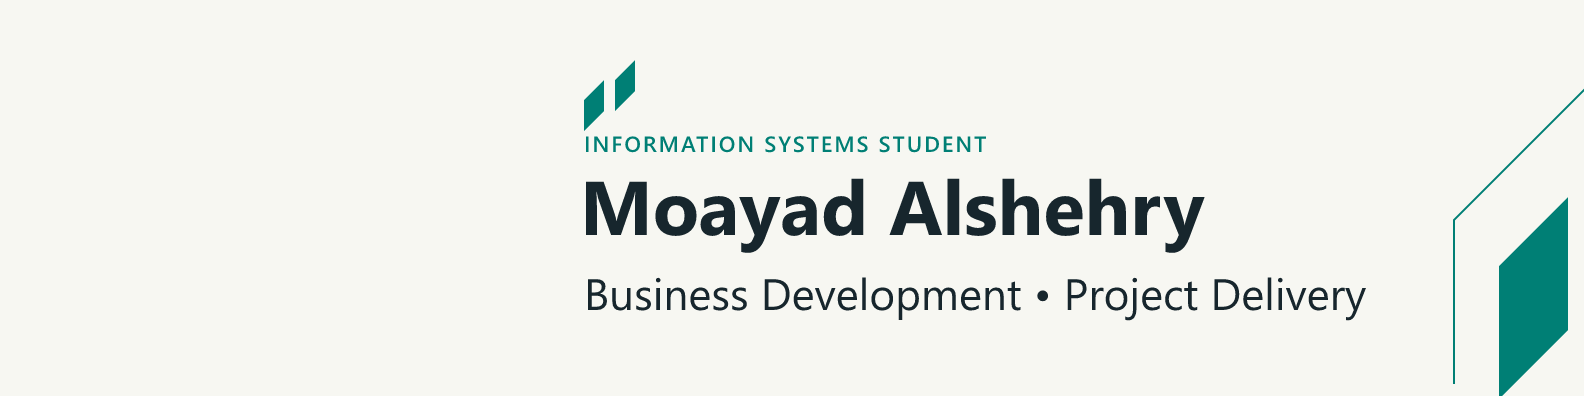
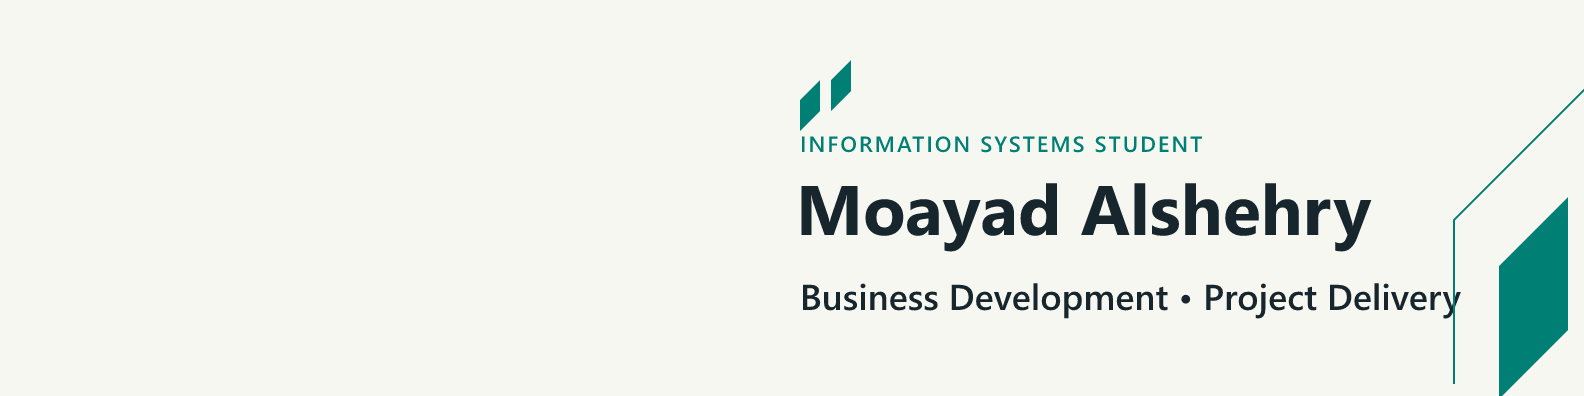
Adapt profile headers to mobile portrait clearance and README width

diff --git a/brand/README.md b/brand/README.md
@@ -8,6 +8,7 @@ Warm ivory, dark ink and restrained teal connect the public project covers. Orig
 - Original logos: AutoSemi from its public repository, Sentinel from its public repository, and the capstone mark from Moayad Alshehry's existing LinkedIn project media.
 - SODUM's generated GitHub avatar is deliberately excluded. The remaining projects use text wordmarks rather than invented logos.
 - Covers are presentation artwork. Application screenshots remain separate and identify synthetic demonstration data.
+- The LinkedIn cover keeps its left half clear for the mobile portrait overlay. The matching GitHub header uses a separate 1000 × 360 layout so the same positioning remains readable inside a narrow README.
 
 ## Logo provenance
 

diff --git a/README.md b/README.md
@@ -1,4 +1,4 @@
-![Moayad Alshehry — Information Systems Student | Business Development & Project Delivery](assets/professional-banner.png)
+![Moayad Alshehry — Information Systems Student | Business Development & Project Delivery](assets/github-header.png)
 
 I'm an **Information Systems student at King Khalid University**, interested in **business development and project delivery**.
 
